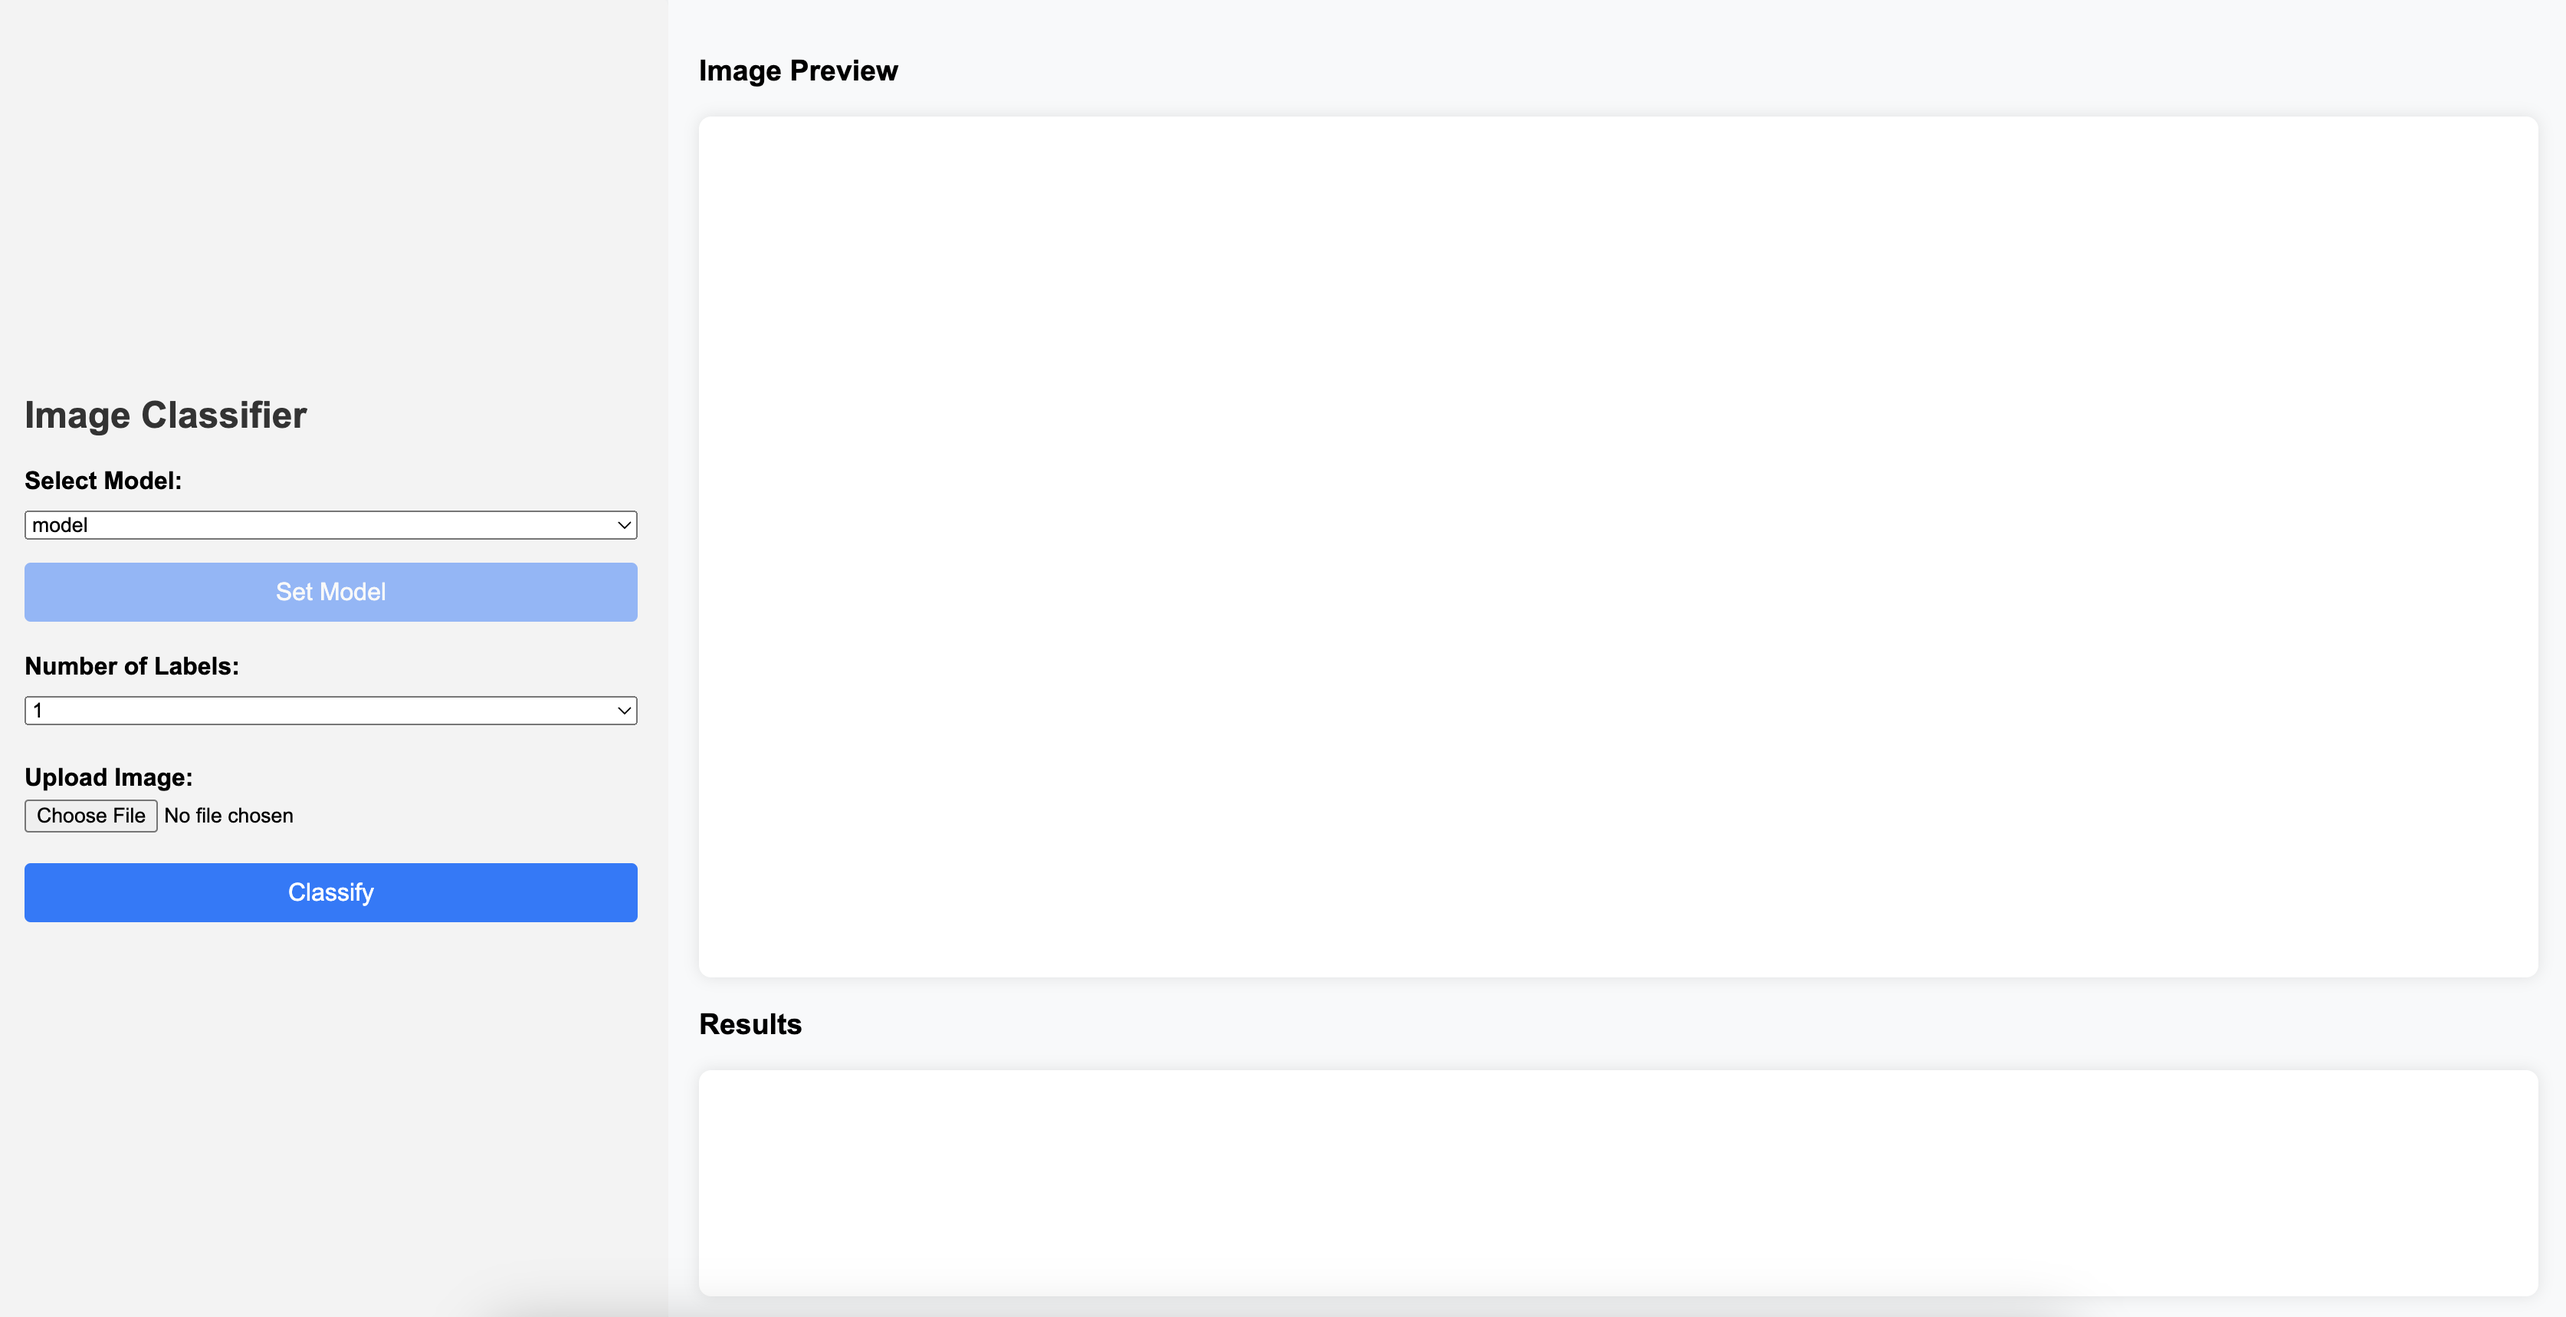
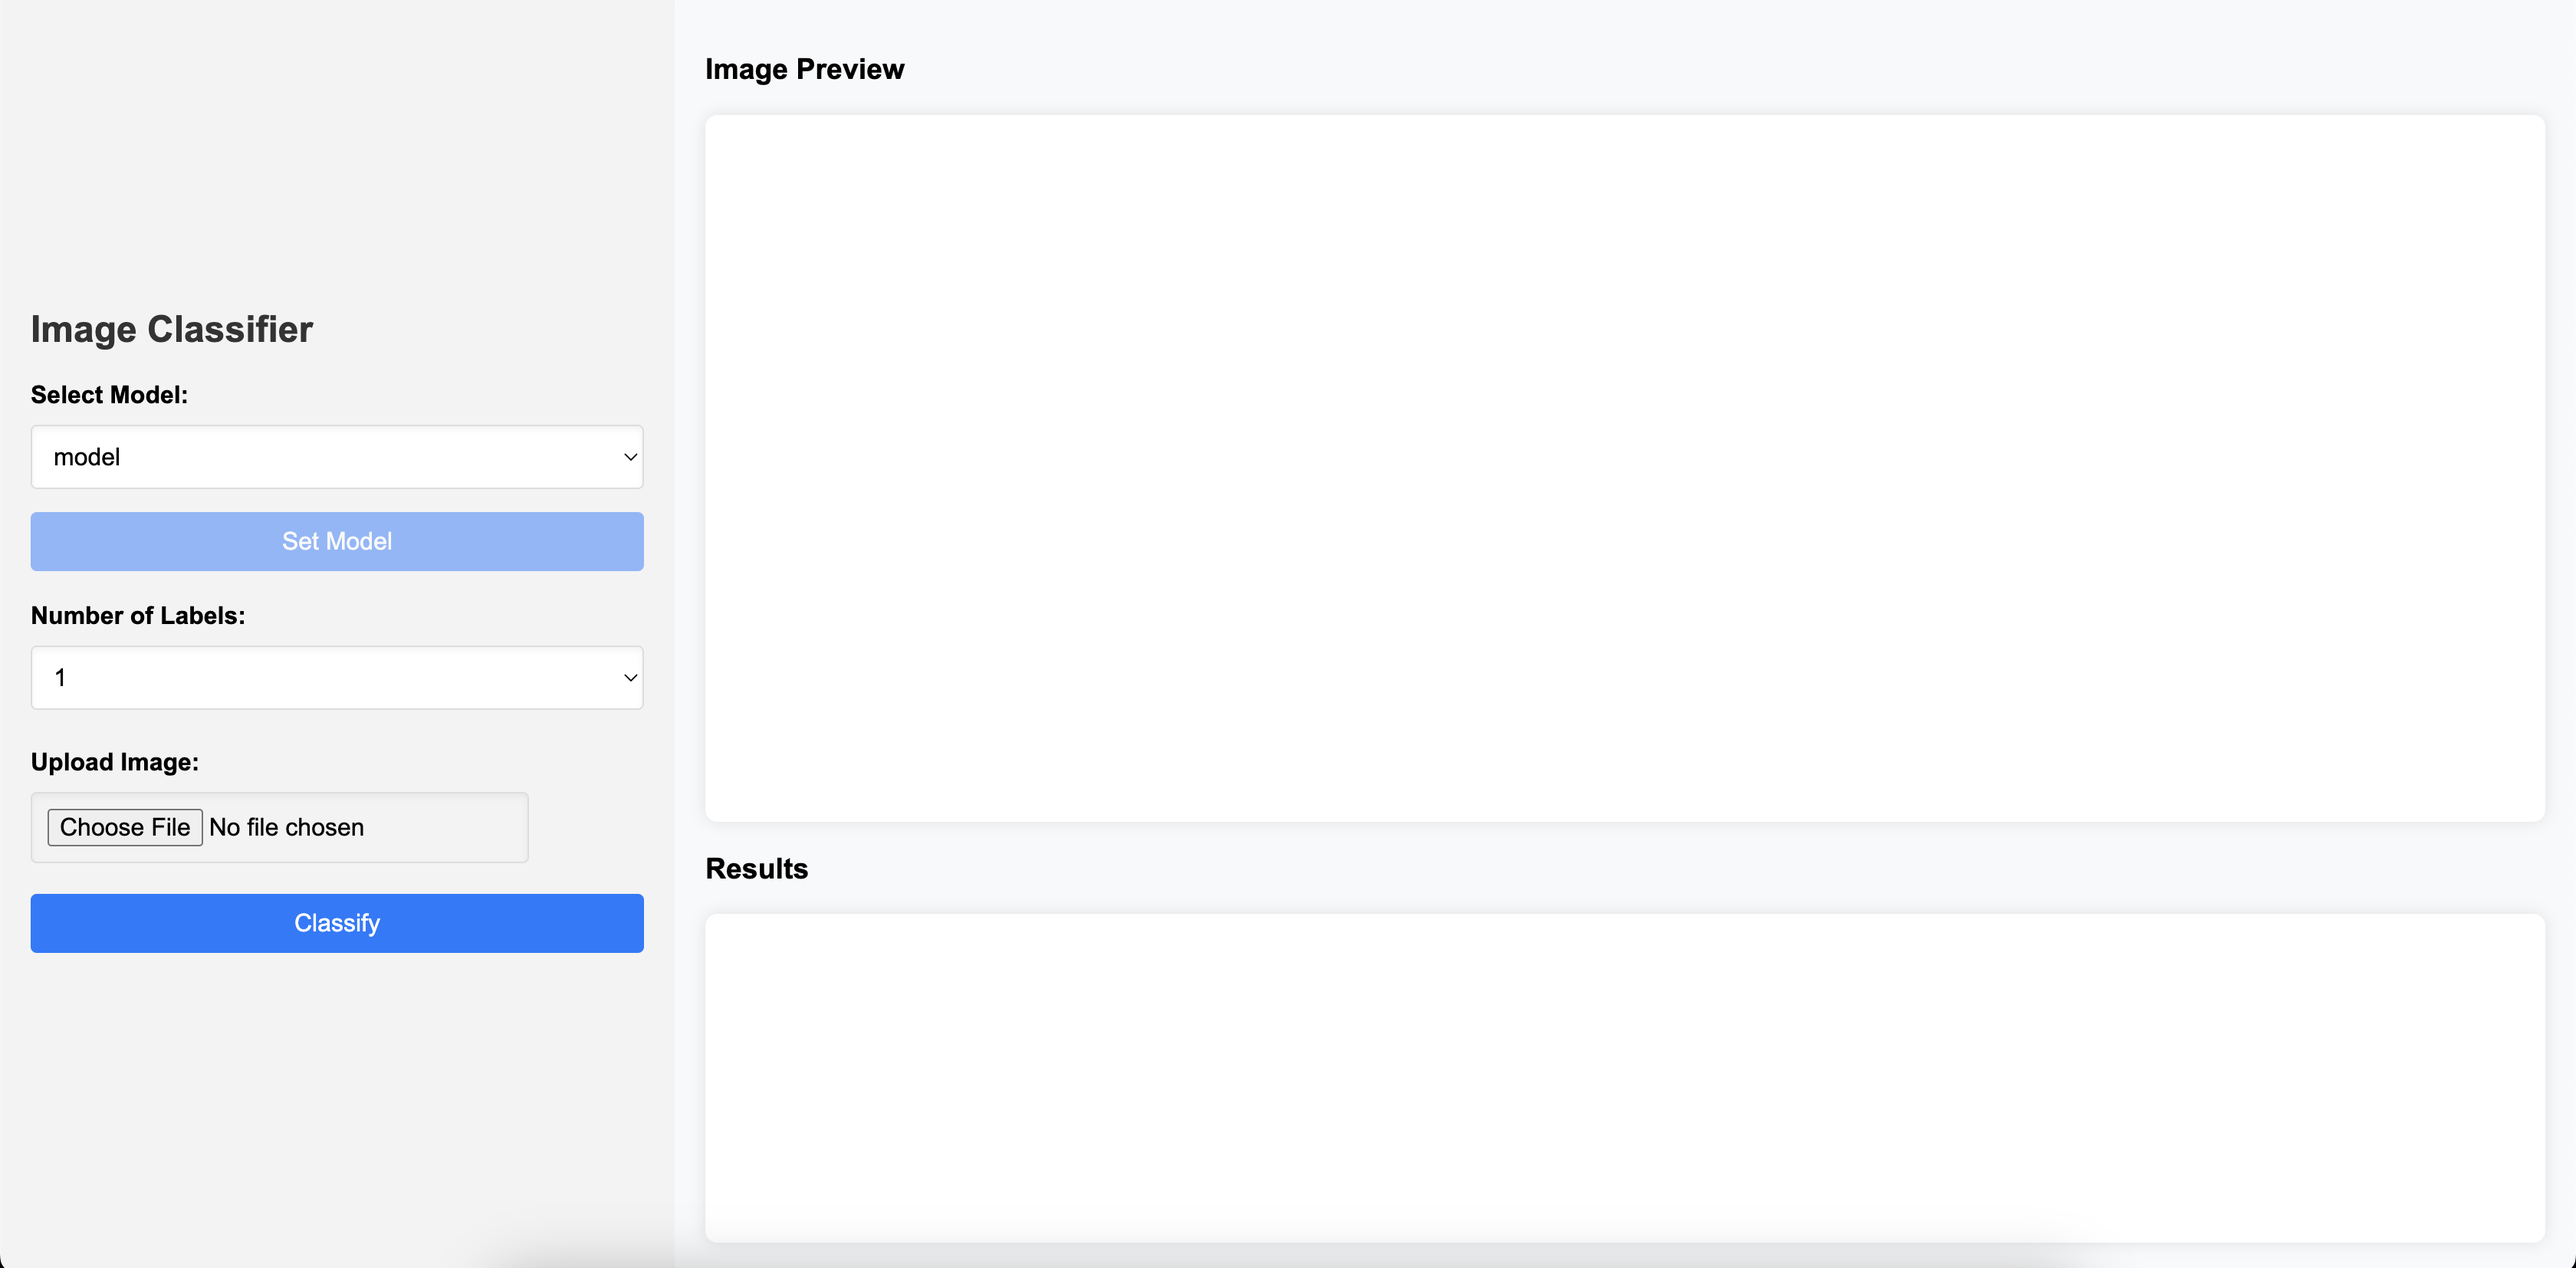
styled inputs

diff --git a/static/styles.css b/static/styles.css
@@ -43,8 +43,8 @@ label {
 }
 
 input[type="file"] {
-    width: 100%;
     margin-bottom: 10px;
+    margin-top: 5px;
 }
 
 select {
@@ -74,7 +74,6 @@ button:disabled {
     cursor: not-allowed; /* Change cursor to not-allowed */
 }
 
-
 .results-container {
     flex: 3; /* 75% of the container width */
     padding: 20px;
@@ -91,7 +90,7 @@ button:disabled {
 
 .results-container .results {
     overflow-y: auto;
-    height: calc(25% - 12%); 
+    height: calc(25% - 3%); 
 }
 
 .results-container .image-preview {
@@ -101,7 +100,21 @@ button:disabled {
     align-items: center;        
     text-align: center;
     margin-bottom: 20px;
-    height: calc(75% - 12%); 
+    height: calc(75% - 22%); 
+}
+
+.results ul {
+    list-style-type: none;
+    padding: 0;
+}
+
+.results li {
+    margin: 10px 0;
+    padding: 10px;
+    background-color: #f9f9f9;
+    border: 1px solid #ddd;
+    border-radius: 4px;
+    box-shadow: 0 2px 4px rgba(0, 0, 0, 0.05);
 }
 
 .image-preview img {
@@ -110,3 +123,19 @@ button:disabled {
     border-radius: 4px;
     box-shadow: 0 0 10px rgba(0, 0, 0, 0.1);
 }
+
+/* Styled Input */
+.styled-input {
+    padding: 10px;
+    font-size: 16px;
+    border: 1px solid #ddd;
+    border-radius: 4px;
+    box-shadow: inset 0 2px 4px rgba(0, 0, 0, 0.05);
+    transition: border-color 0.3s ease;
+}
+
+.styled-input:focus {
+    border-color: #007bff;
+    outline: none;
+}
+

diff --git a/static/index.html b/static/index.html
@@ -13,7 +13,7 @@
         <h1>Image Classifier</h1>
         <div class="form-group">
           <label for="model">Select Model:</label>
-          <select id="model" name="model">
+          <select class="styled-input" id="model" name="model">
             <!-- Options will be dynamically populated -->
           </select>
           <button id="set-model-button" disabled>Set Model</button>
@@ -21,14 +21,20 @@
 
         <div class="form-group">
           <label for="num-labels">Number of Labels:</label>
-          <select id="num-labels" name="num-labels">
+          <select class="styled-input" id="num-labels" name="num-labels">
             <!-- Options will be dynamically populated -->
           </select>
         </div>
 
         <div class="form-group">
           <label for="file">Upload Image:</label>
-          <input type="file" id="file" name="file" accept="image/*" />
+          <input
+            class="styled-input"
+            type="file"
+            id="file"
+            name="file"
+            accept="image/*"
+          />
           <button id="classify-button">Classify</button>
         </div>
       </div>
